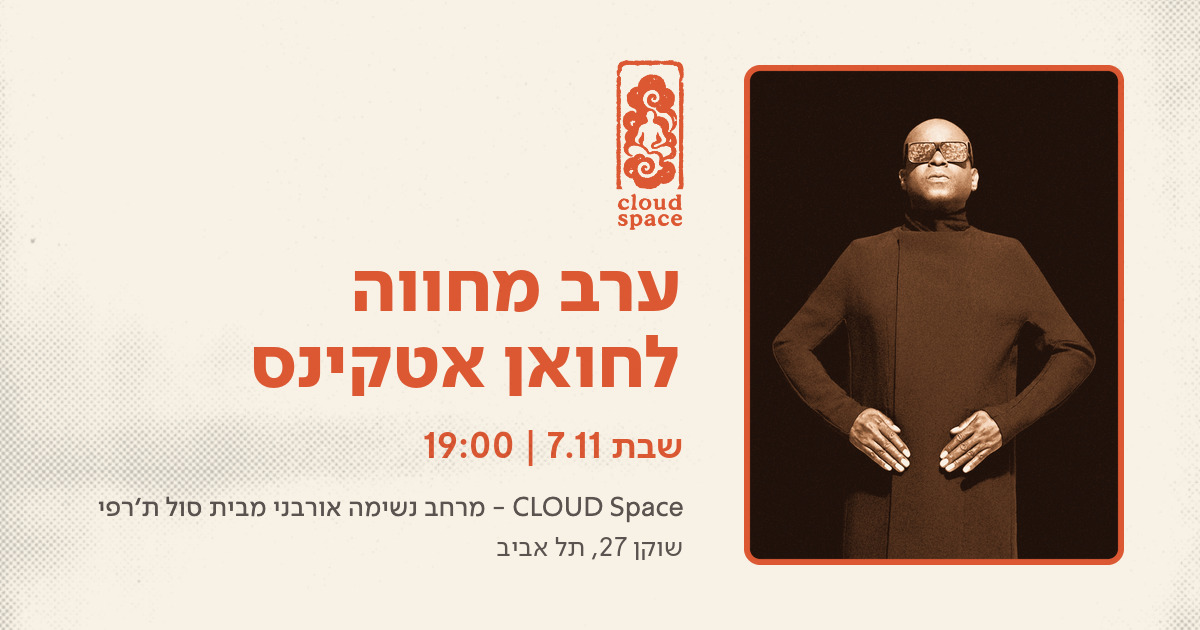
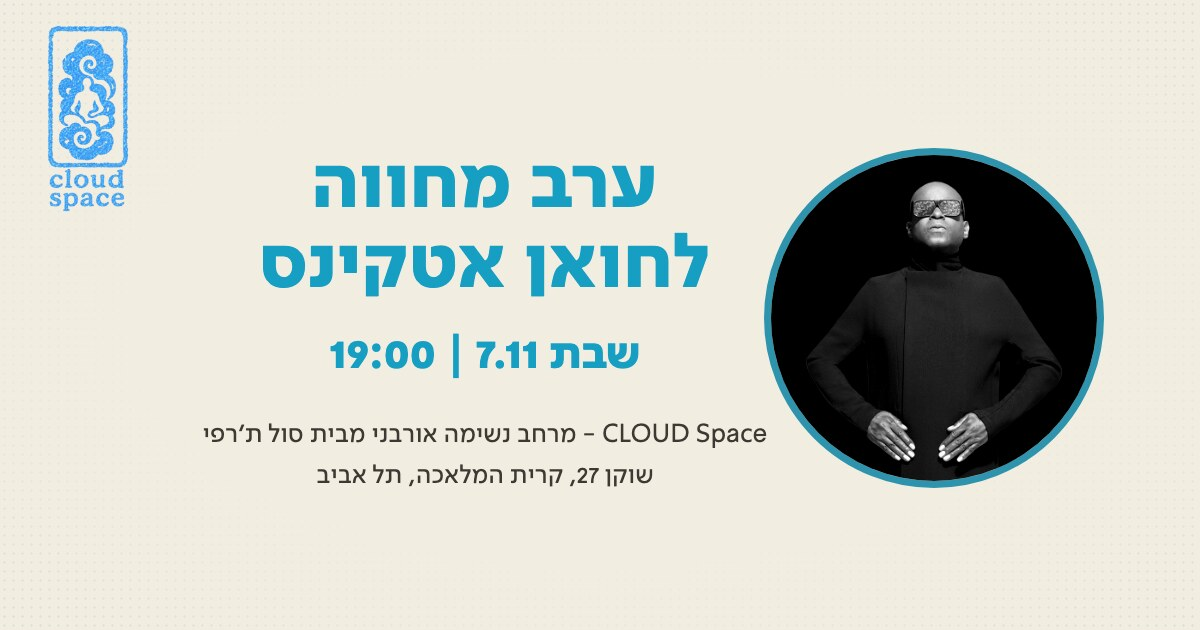
Juan Atkins tribute page: bold free-entry, title no-break, sticky label, turquoise share image

diff --git a/share/juan-atkins-tribute.html b/share/juan-atkins-tribute.html
@@ -281,7 +281,7 @@ body[data-state="live"] .sp-sticky{display:block}
   <a class="sp-back" href="../cloud"><svg width="15" height="15" viewBox="0 0 24 24" fill="none" stroke="currentColor" stroke-width="1.8" stroke-linecap="round" stroke-linejoin="round"><path d="M5 12h14"/><path d="M12 5l7 7-7 7"/></svg>לליינאפ המלא</a>
 
   <div class="sp-kicker">Cloud Space &middot; Sol Therapy</div>
-  <h1 class="sp-title">ערב מחווה לחואן אטקינס</h1>
+  <h1 class="sp-title">ערב מחווה לחואן&nbsp;אטקינס</h1>
   <p class="sp-line">פאנל שיח ומפגש השמעת חומרים לזכרו ולכבודו של מייסד הטכנו מדטרויט.</p>
 
   <div class="sp-hero">
@@ -292,7 +292,7 @@ body[data-state="live"] .sp-sticky{display:block}
     <span>שבת</span><span class="num">7.11</span>
     <span class="sep">·</span><span class="num">19:00</span>
     <span class="sep">·</span><span>קלאוד ספייס, שוקן 27</span>
-    <span class="sep sep-price">·</span><span class="price">כניסה חופשית בהרשמה מראש</span>
+    <span class="sep sep-price">·</span><span class="price"><strong>כניסה חופשית</strong> בהרשמה מראש</span>
   </div>
 
   <div class="sp-bio">
@@ -352,7 +352,7 @@ body[data-state="live"] .sp-sticky{display:block}
 </main>
 
 <div class="sp-sticky">
-  <a href="#rsvp"><span class="who">חואן אטקינס · <span dir="ltr">7.11</span></span><span class="act">להרשמה - חינם</span></a>
+  <a href="#rsvp"><span class="who">ערב מחווה · <span dir="ltr">7.11</span></span><span class="act">להרשמה - חינם</span></a>
 </div>
 <div class="sp-toast" id="toast"><span>הקישור הועתק</span></div>
 
